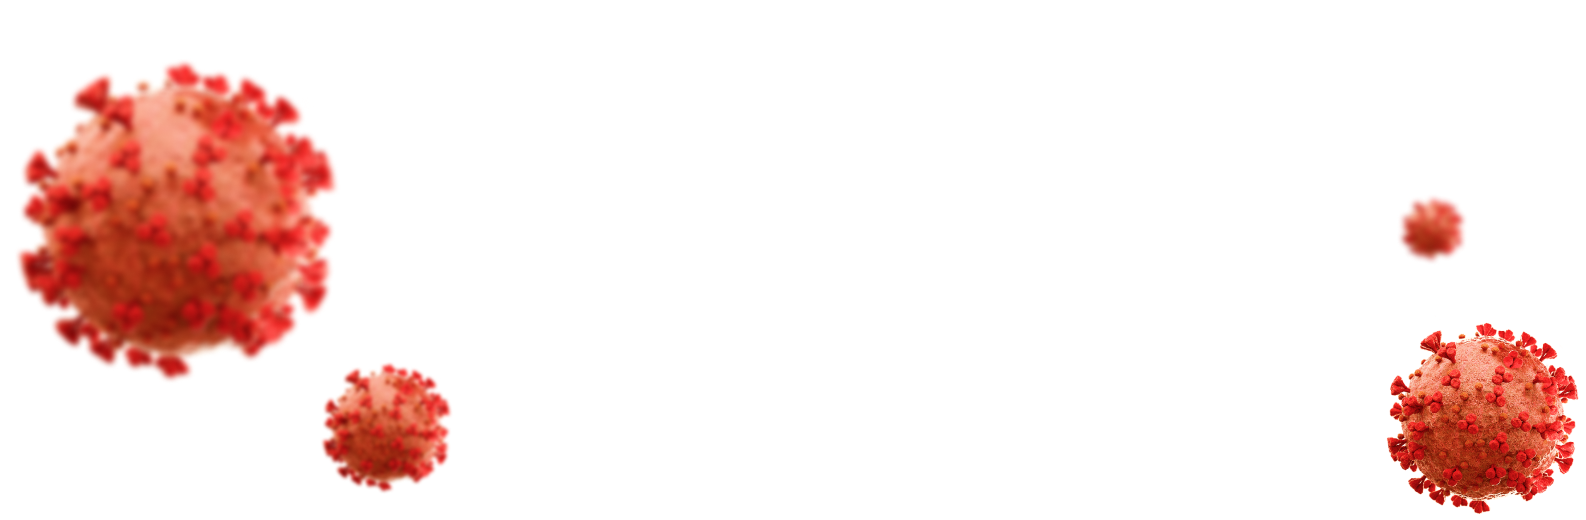
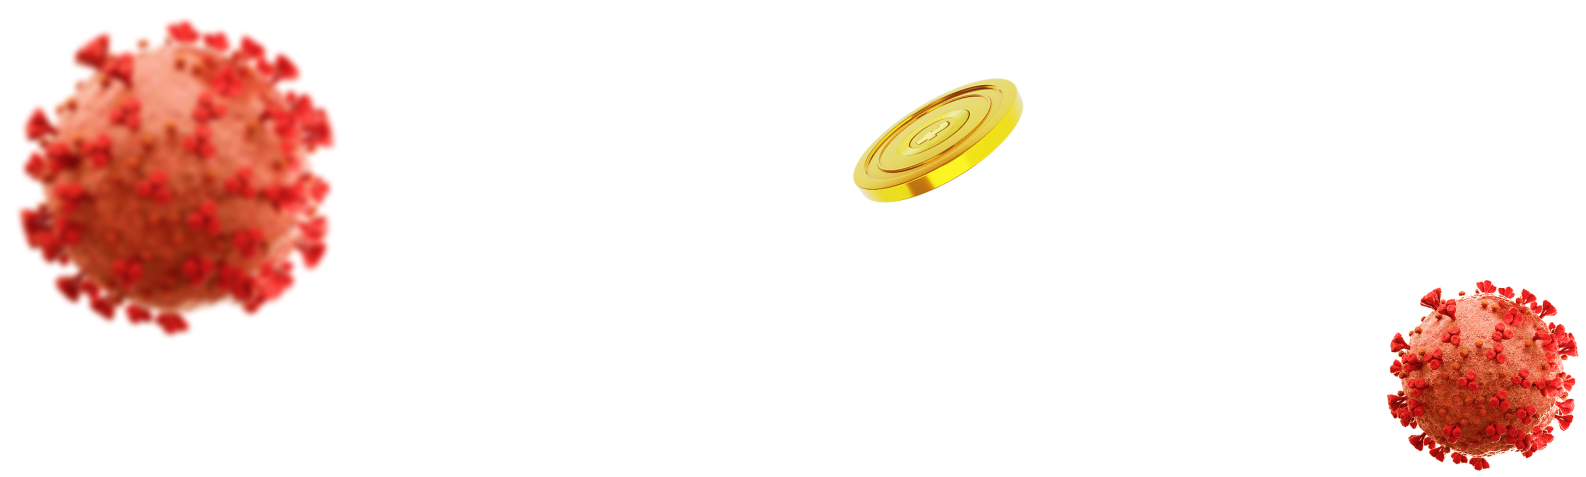
fix

diff --git a/profid19/css/main.css b/profid19/css/main.css
@@ -1,1 +1,1 @@
[2 lines of base64/hex data omitted]

diff --git a/profid19/index.html b/profid19/index.html
@@ -7,15 +7,20 @@
     <title>Document</title>
     <link rel="preconnect" href="https://fonts.gstatic.com"/>
     <link href="https://fonts.googleapis.com/css2?family=Open+Sans:wght@400;600;700&amp;display=swap" rel="stylesheet"/>
-    <link rel="stylesheet" href="css/jquery.counter-analog2.css" media="screen and (min-width: 560px)"/>
-    <link rel="stylesheet" href="css/jquery.counter-analog3.css" media="screen and (max-width: 560px)"/>
+    <link rel="stylesheet" href="css/jquery.counter-analog2.css"/>
+    <link rel="stylesheet" href="css/jquery.counter-analog3.css"/>
     <link rel="stylesheet" href="css/main.css"/>
   </head>
   <body>
     <section class="profid19">
-      <header class="profid19-header">
-        <div class="profid19-header__img">
-          <div class="profid19_parallax_js"><img src="img/header_img.png" alt="" data-depth="0.5"/></div>
+      <section class="profid19-header">
+        <div class="profid19-header__img-wrap">
+          <div class="profid19-header__img profid19-header__img_1">
+            <div class="profid19_parallax_js"><img src="img/header_img1.png" alt="" data-depth-x="0.2" data-depth-y="0.1"/></div>
+          </div>
+          <div class="profid19-header__img profid19-header__img_2">
+            <div class="profid19_parallax_js"><img src="img/header_img2.png" alt="" data-depth-x="-0.2" data-depth-y="-0.1"/></div>
+          </div>
         </div>
         <div class="profid19-container">
           <div class="profid19-header__content"> 
@@ -23,7 +28,7 @@
             <h1 class="profid19-header__title"><img src="img/title.png" alt=""/></h1>
           </div>
         </div>
-      </header>
+      </section>
       <section class="profid19-info">
         <div class="profid19-container">
           <div class="profid19-info__content"> 
@@ -81,14 +86,13 @@
         </div>
       </section>
       <section class="profid19-rating">
-        <div class="profid19-rating__img profid19-rating__img_1">
-          <div class="profid19_parallax_js"><img src="img/table_img1.png" alt="" data-depth="0.5"/></div>
-        </div>
-        <div class="profid19-rating__img profid19-rating__img_2">
-          <div class="profid19_parallax_js"><img src="img/table_img2.png" alt="" data-depth="0.5"/></div>
-        </div>
-        <div class="profid19-rating__img profid19-rating__img_3">
-          <div class="profid19_parallax_js"><img src="img/table_img3.png" alt="" data-depth="0.5"/></div>
+        <div class="profid19-rating__img-wrap">
+          <div class="profid19-rating__img profid19-rating__img_1">
+            <div class="profid19_parallax_js"><img src="img/table_img1.png" alt="" data-depth-x="0.2" data-depth-y="0.1"/></div>
+          </div>
+          <div class="profid19-rating__img profid19-rating__img_2">
+            <div class="profid19_parallax_js"><img src="img/table_img2.png" alt="" data-depth-x="-0.2" data-depth-y="-0.1"/></div>
+          </div>
         </div>
         <div class="profid19-container">
           <div class="profid19-rating__content"> 
